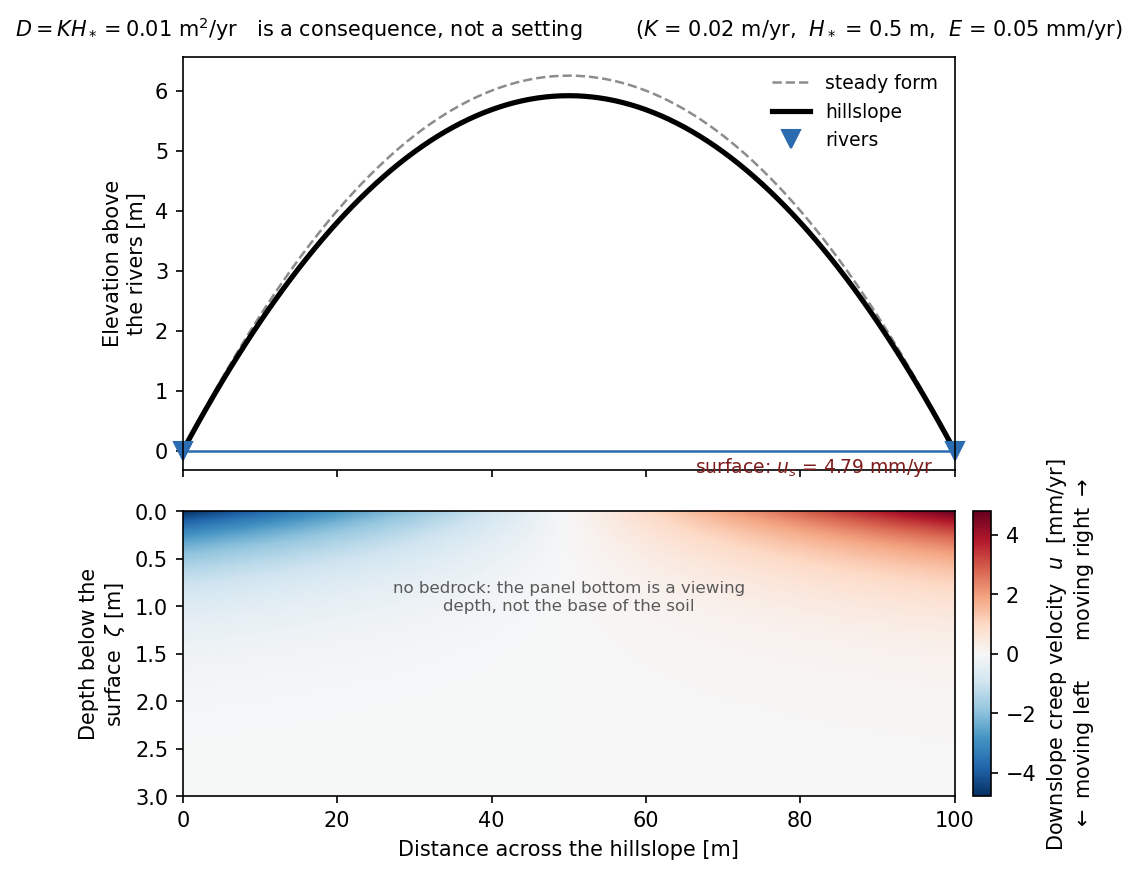
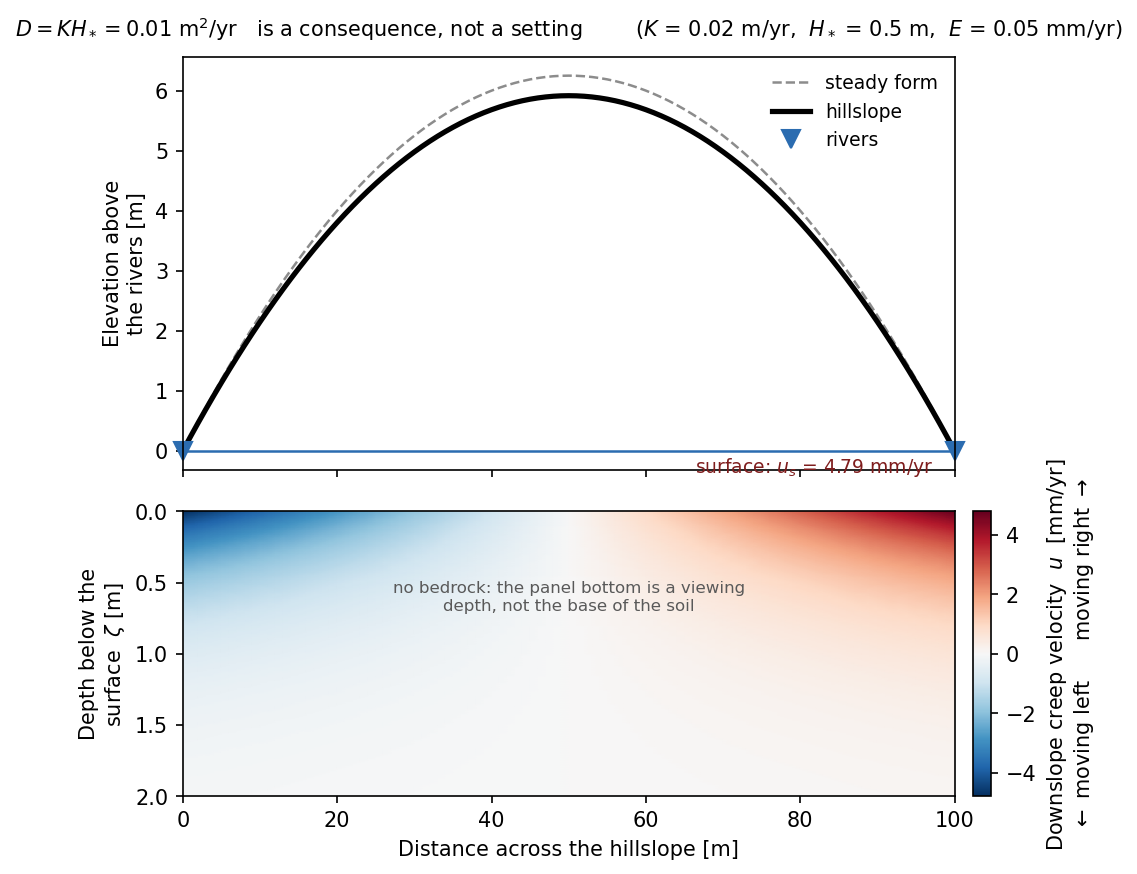
Derive the velocity panel's depth from the model scale, not a fixed metre value
Andy's correction: how deep to draw depends on the scale of the model, so a
bare 3.0 m silently stops being right the moment the model is rescaled.

The rule splits, for a reason.  The static figure has one H* and follows it
directly (4 e-foldings, always 98.2% of the flux, so the panel looks the same
at any scale).  The demo cannot: an axis derived from the current H* would move
while a student drags the slider.  It follows the slider's upper bound instead,
which still tracks a rescaled model but never moves during use.

Z_DISPLAY_IN_HSTAR_MAX = 1.0 (so 2.0 m today) remains a proposal.

Changed region(s): [[0.6772, 0.587, 0.8619, 0.7414], [0.1231, 0.587, 0.3386, 0.7105], [0.1231, 0.8032, 0.1539, 0.865]]

diff --git a/interactive_demo/hillcreep_panel.py b/interactive_demo/hillcreep_panel.py
@@ -38,11 +38,22 @@ K_MIN, K_MAX, K0 = 0.01, 0.05, 0.02          # [m/yr] at unit slope
 HS_MIN, HS_MAX, HS0 = 0.25, 2.0, 0.5         # [m]
 E_MIN, E_MAX, E0 = -0.05, 0.10, 0.05         # [mm/yr], positive = incising
 
+#: How deep the velocity panel reaches, as a multiple of the *largest* H* the
+#: slider offers.  Deriving it from the model's own depth scale means the panel
+#: follows a rescaled model instead of needing a new hand-picked number; taking
+#: the slider's upper bound rather than its current value means the axis does
+#: not move under a student dragging the slider, which would destroy exactly
+#: the comparison the panel exists to support.
+#:
+#: At 1.0 the deepest setting fills the panel and shows 63.2% of the flux,
+#: while the default H* = 0.5 m keeps its motion in the top quarter.  At 1.5
+#: the deepest setting shows 77.7% and the default is squeezed into the top
+#: sixth.  One constant, and it is a proposal either way.  See design/04.
+Z_DISPLAY_IN_HSTAR_MAX = 1.0
+
 #: Depth shown in the velocity panel [m].  A viewing choice, not the base of
-#: the soil -- there is no bedrock in this model.  Fixed rather than scaled to
-#: H*, so that the axis does not move under a student dragging the slider.
-#: probe_c: 3 m holds 99.8% of the flux at H* = 0.5 m and 77.7% at H* = 2.0 m.
-Z_DISPLAY = 3.0
+#: the soil -- there is no bedrock in this model.
+Z_DISPLAY = Z_DISPLAY_IN_HSTAR_MAX * HS_MAX
 N_ZETA = 121
 
 # Explicit diffusion is stable for dt <= dx**2 / 2D.  The sliders change D

diff --git a/examples/figure_two_panel.py b/examples/figure_two_panel.py
@@ -15,7 +15,12 @@ from matplotlib.colors import TwoSlopeNorm
 
 from hillcreep import Hillslope
 
-Z_DISPLAY = 3.0          # depth shown in the lower panel [m]; design 04
+#: How deep the lower panel reaches, in e-folding depths.  A static figure has
+#: a single H*, so unlike the interactive demo it can follow that H* directly:
+#: the panel then looks the same whatever the model's scale, and always shows
+#: the same 1 - exp(-4) = 98.2% of the flux.  The demo cannot do this, because
+#: its axis would move while a student drags the slider (design 04).
+ZETA_EFOLDINGS = 4.0
 N_ZETA = 121
 
 
@@ -33,7 +38,8 @@ def main():
                   incision_rate=a.E * 1e-3)
     h.run(a.kyr * 1e3)
 
-    zeta = np.linspace(0.0, Z_DISPLAY, N_ZETA)
+    z_display = ZETA_EFOLDINGS * h.H_star
+    zeta = np.linspace(0.0, z_display, N_ZETA)
     u = h.velocity_field(zeta) * 1e3                 # mm/yr
     u_max = np.max(np.abs(u))
 
@@ -70,7 +76,7 @@ def main():
     cb.set_label("Downslope creep velocity  $u$  [mm/yr]\n"
                  r"$\leftarrow$ moving left      moving right $\rightarrow$")
 
-    ax_u.text(0.5 * h.length, 0.30 * Z_DISPLAY,
+    ax_u.text(0.5 * h.length, 0.30 * z_display,
               "no bedrock: the panel bottom is a viewing\n"
               "depth, not the base of the soil",
               ha="center", va="center", fontsize=8, color="0.35")

diff --git a/design/04-velocity-panel.md b/design/04-velocity-panel.md
@@ -59,12 +59,26 @@ caption has to say so or students will read it as the base of the soil.
 
 ## Parameters chosen here
 
-- **`Z_DISPLAY = 3.0 m`, fixed.** *A proposal.* From `probe_c`: 3 m captures
-  99.8% of the flux at the default `H* = 0.5 m`, 95.0% at `H* = 1.0`, and
-  77.7% at the largest `H* = 2.0`. Fixed rather than scaled to `H*` on purpose
-  -- a depth axis that moves while a student drags the slider destroys exactly
-  the comparison the panel exists to support, and a fixed axis makes "the
-  moving layer reaches deeper" directly visible.
+- **Panel depth is derived from the model's own depth scale, not hand-picked.**
+  Andy's correction: how deep to draw depends on the scale of the model, so a
+  bare number in metres is the wrong kind of constant -- it silently stops
+  being right the moment the model is rescaled. The rule differs between the
+  two renderings, for a reason:
+
+  - **The static figure** has a single `H*`, so it follows that `H*` directly:
+    `ZETA_EFOLDINGS = 4.0`, i.e. `Z_DISPLAY = 4 H*`. The panel then looks the
+    same at every scale and always shows `1 - e^-4 = 98.2%` of the flux.
+  - **The interactive demo** cannot do that: an axis derived from the *current*
+    `H*` would move while a student drags the slider, destroying exactly the
+    comparison the panel exists to support. It uses the slider's upper bound
+    instead, `Z_DISPLAY = Z_DISPLAY_IN_HSTAR_MAX * HS_MAX`, which still follows
+    a rescaled model but never moves during use.
+
+  `Z_DISPLAY_IN_HSTAR_MAX = 1.0` is *a proposal*, and the one number left to
+  taste. At 1.0 the deepest slider setting fills the panel and shows 63.2% of
+  the flux while the default `H* = 0.5 m` keeps its motion in the top quarter;
+  at 1.5 the deepest shows 77.7% and the default is squeezed into the top
+  sixth. Flux fractions from `probe_c`.
 - **Colour scale fixed to ±`E L / (2 H*)`**, the *steady* surface velocity at
   the toe. *A proposal.* This depends only on the sliders, so it does not
   flicker frame to frame, and the colours saturate as the hill approaches its
